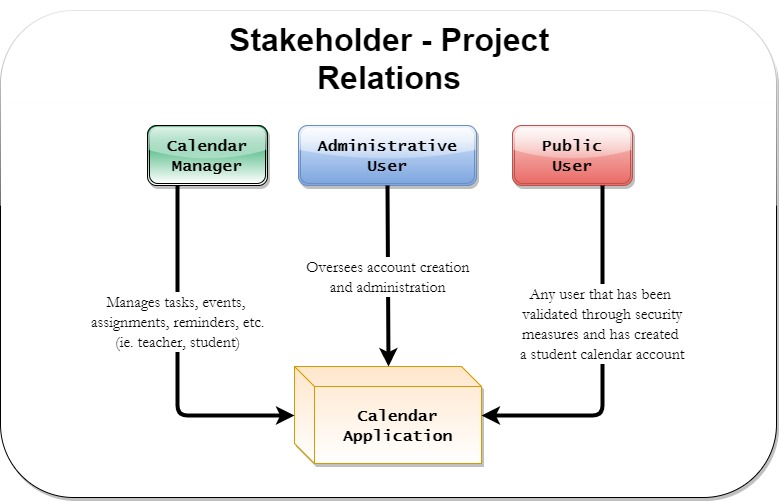
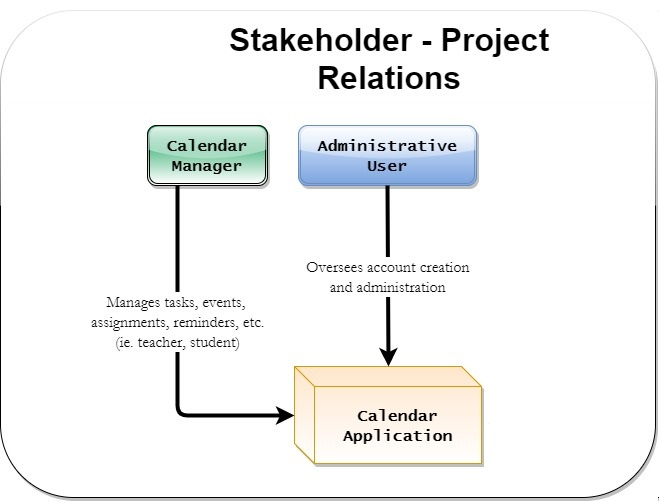
Updated using Forkey feedback on 1.1A
Things left to do.
1. Table or figure after table of contents.
2. References - IEEE Doc
3. Graphic Titles, Figure numbers, etc.

Changed region(s): [[0.1214, 0.2395, 0.8801, 0.9581], [0.0, 0.0898, 1.0, 1.0], [0.2731, 0.0299, 0.8498, 0.1796]]

diff --git a/SDD/3.4.0.0.md b/SDD/3.4.0.0.md
@@ -1,18 +1,18 @@
 ## 3.4 Use Case Tables and Descriptions
 
-Use cases define the interactions between the actors or personas and the system that are required. The following table is employed as a template to describe use cases in section 3.4. The left side of the table remains the same, while the right provides a description of the text that will be filled in according to the particular use case.
+Use cases provide design viewpoints that show the interactions between the actors or personas and the system that are required. The following table is employed as a template to describe use cases in section 3.4. The left side of the table remains the same, while the right provides a description of the text that will be filled in according to the particular use case.
 
 #### 3.4.0.1 Use Case Template
 
 | Data | Description |
 | --- |--- |
-| ScreenShot/Mockup: | The screenshot/Mockup will contain a graphical illustration of the use case under consideration.|
+| ScreenShot/Mockup: | The screenshot/Mockup will contain a graphical illustration which will show the design view of the use case under consideration.|
 | Page Title: | The page title is the title of the web page corresponding to the use case or "N/A" if not applicable. |
 | Parent User Story:| The Parent User Story links to the higher level use case that is parent to a particular use case.|
-| Actor(s)/Persona(s): | The users, stakeholders, or systems that the use case pertains to.|
+| Actor(s)/Persona(s): | The design stakeholders that the use case pertains to.|
 | Pre-conditions/Product(s) Required: | The conditions, procedures, and requirements to be completed before the use case may be attempted.|
 | Post-conditions/Product(s) Produced: | The conditions, procedures, and requirements to be completed upon termination of the use case.|
 | Links: | Additional references either inside this document or external references.|
 | SRS Document | The reference to the section in Software Requirements Specification pertaining to the use case.|
-| Description/Notes:| A complete description of the interactions that take place in the use case. These interactions include primary paths, alternate paths, and exception paths. This section also contains any additional notes and requirements pertaining to the use case.|
+| Description/Notes:| A complete description of the interactions that take place in the use case. These interactions include design concerns, requirements, and design elements. The description/notes section also contains any additional notes and requirements pertaining to the use case.|
 

diff --git a/SDD/3.1.0.0.md b/SDD/3.1.0.0.md
@@ -4,36 +4,18 @@
 
 ### 3.1.1 Calendar Manager
 
-#### 3.1.1.1 Information
-
 The Calendar Manager is a user who works with student tasks, events, assignments, reminders, etc.
-There are several users who fall into the Calendar Manager category. Each user can perform similar
+There are several users who fall into the Calendar Manager category such as teachers, event coordinators, and students. Each user can perform similar
 actions, but for different reasons. For example, a teacher may want to highlight a test deadline for
 his or her students. A student may want to set reminders about a test or homework deadline throughout
 the week.
 
-3.1.1.1.1 Teacher
+### 3.1.2 Calendar Application
 
-3.1.1.1.2 Event Coordinator
+The Calendar Application represents the system and the actions it takes.
 
-3.1.1.1.3 Student
+### 3.1.3 Administrative User
 
-### 3.1.2 Student Calendar
 
-#### 3.1.2.1 Information
-
-The Student Calendar represents the system and the actions it takes.
-
-### 3.1.3 Administrative
-
-#### 3.1.3.1 Administrative User Information
-
-The Administrative User is a user who oversees account creation and administration. 
-
-### 3.1.4 Public User
-
-#### 3.1.4.1 Public User Information
-
-The Public User is a generic user to represent the general user. They have been validated
-through the security measures and created a personal Student Calendar account.
+The Administrative User is a user who oversees account creation and administration.
 

diff --git a/SDD/3.0.0.0.md b/SDD/3.0.0.0.md
@@ -2,12 +2,3 @@
 
 All Use Cases, as defined in this SDD, are based on 5.2.2 definition of the IEEE 1016-2009 document. Each Use Case should contain all of the Design Viewpoints as necessary to accurately describe the functional and technical underpinnings of the specified feature. Each Use Case should also cover, as needed, the descriptions as defined from the IEEE 1016-2009 document as outlined in sections 5.2, 5.3, 5.4, 5.5, 5.6, 5.7, 5.8, 5.9, 5.10, 5.11, 5.12, and 5.13 from the IEEE 1016-2009 document. It is important to note that not all section 5 items from the IEEE 1016-2009 document will be found in all or each Use Case. Those design elements that make most sense will be used.
 
-This section addresses the use cases and requirements to be met by the software design.
-
-| Section | Description|
-| --- |--- |
-| 3.1 | Identified Stakeholders and Design Concerns |
-| 3.2 | List of use cases |
-| 3.3 | Use Case Diagrams |
-| 3.4 | Use Case Tables, Descriptions, and Images|
-

diff --git a/SDD/~ii Authors.md b/SDD/~ii Authors.md
@@ -10,33 +10,24 @@ Robert Nelson<br/>
 Adam Shumway<br/>
 Daniel Craig<br/>
 
-## Team 1 - UML / Class Diagrams
+## Team Members
 
 Austin Golding<br/>
 Marcus Rhodes<br/>
 Jonathan Comeau<br/>
 Dallin Snell<br/>
 Kylor Kersavage<br/>
-
-## Team 2 - Use Cases
-
 Aaron Shore<br/>
 Brian Robertson<br/>
 Joseph Keene<br/>
 Jacob Keene<br/>
 Zane West<br/>
 Rex Nesbit<br/>
-
-## Team 3 - Data Modeling / Database
-
 John Memmott<br/>
 Jefferson Santos<br/>
 Keith Wheeler<br/>
 Tyler Sorenson<br/>
 Brandon Hartshorn<br/>
-
-## Team 4 - UX / UI
-
 Micah Wilson<br/>
 Jason Catmull<br/>
 Sebastian Calle<br/>
@@ -44,3 +35,4 @@ Marcus Hedgecock<br/>
 Jonah Green<br/>
 Fernando Gomez<br/>
 Michael Flindt<br/>
+

diff --git a/SDD/~i Title.md b/SDD/~i Title.md
@@ -1,12 +1,11 @@
+# Student Calendar Integration Application
+
 # Software Design Document
 
 
 ## Version 1.3
 
 ## November 25th, 2017
-
-# Student Calendar Integration Application
-
 
 ### BYU-Idaho CS364 Software Engineering
 
